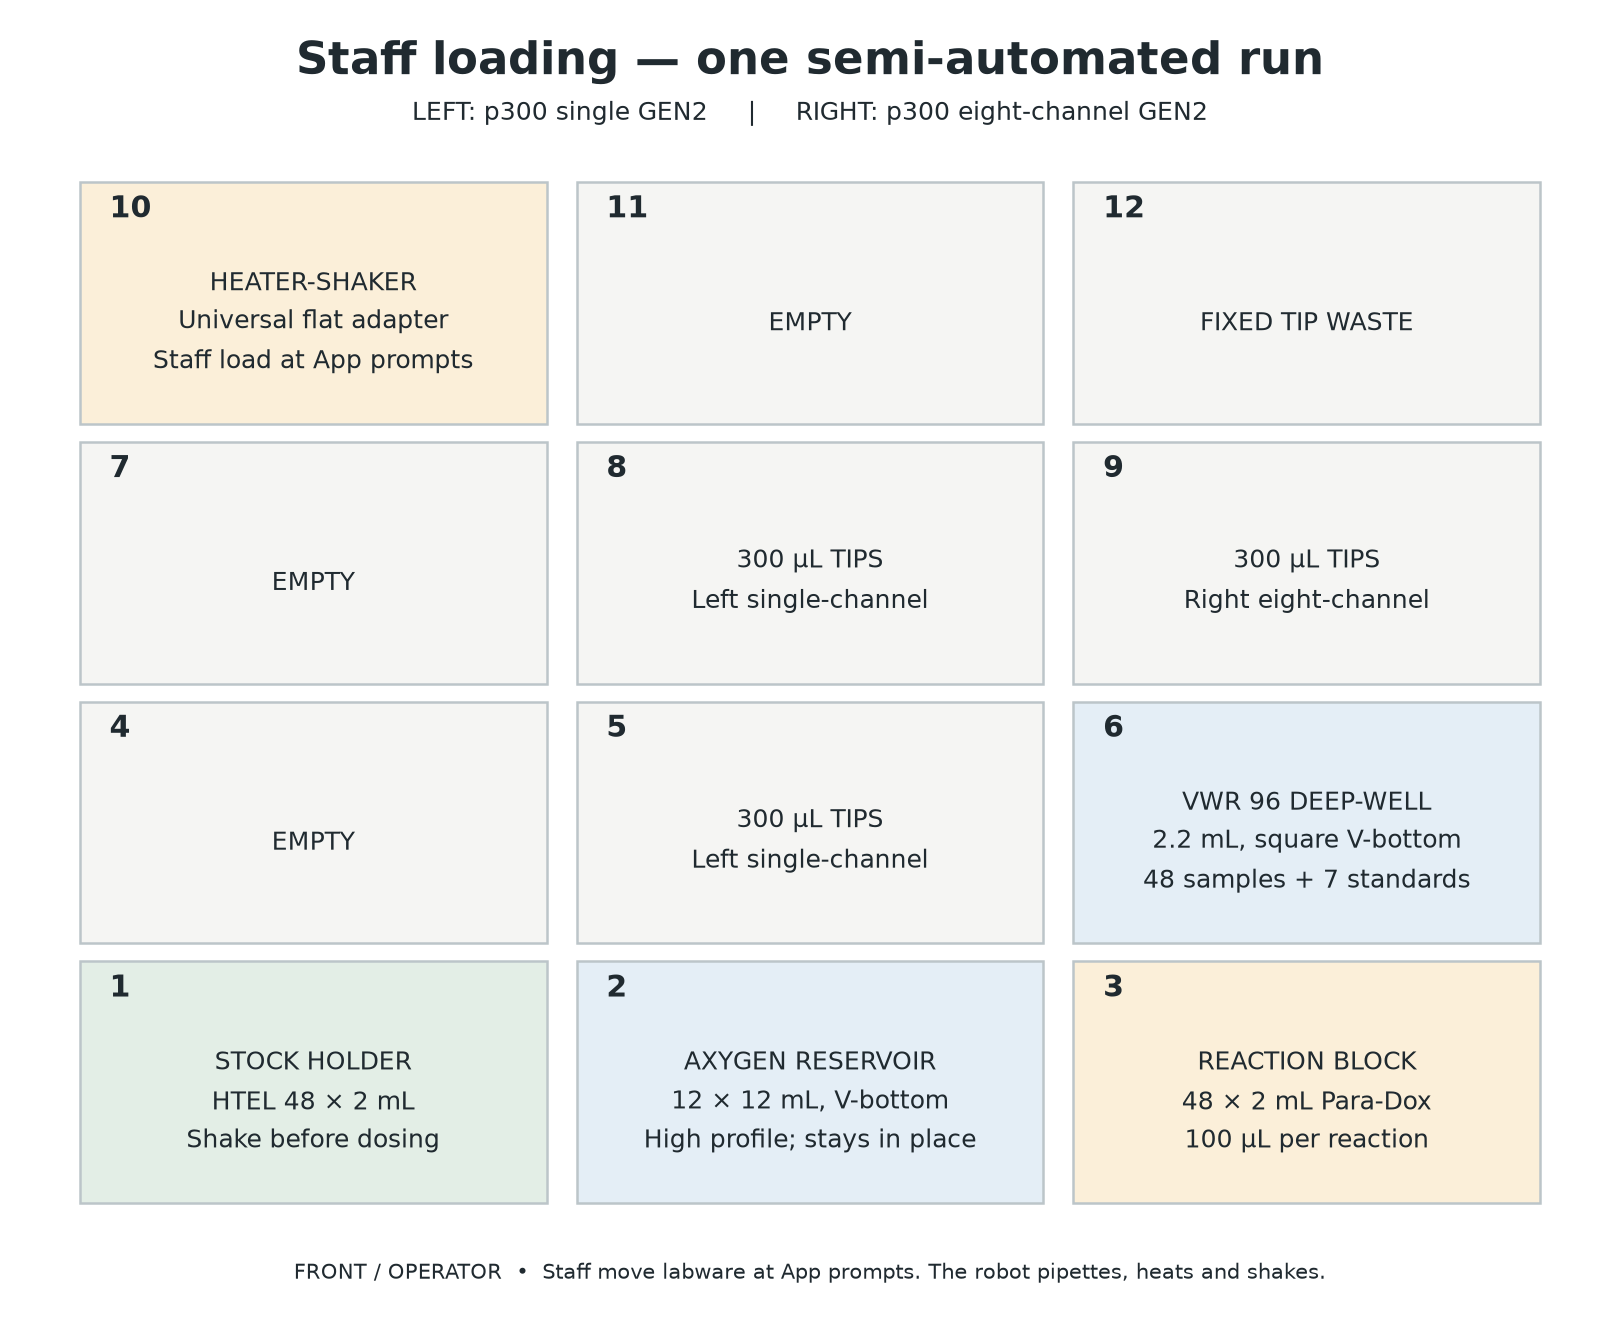
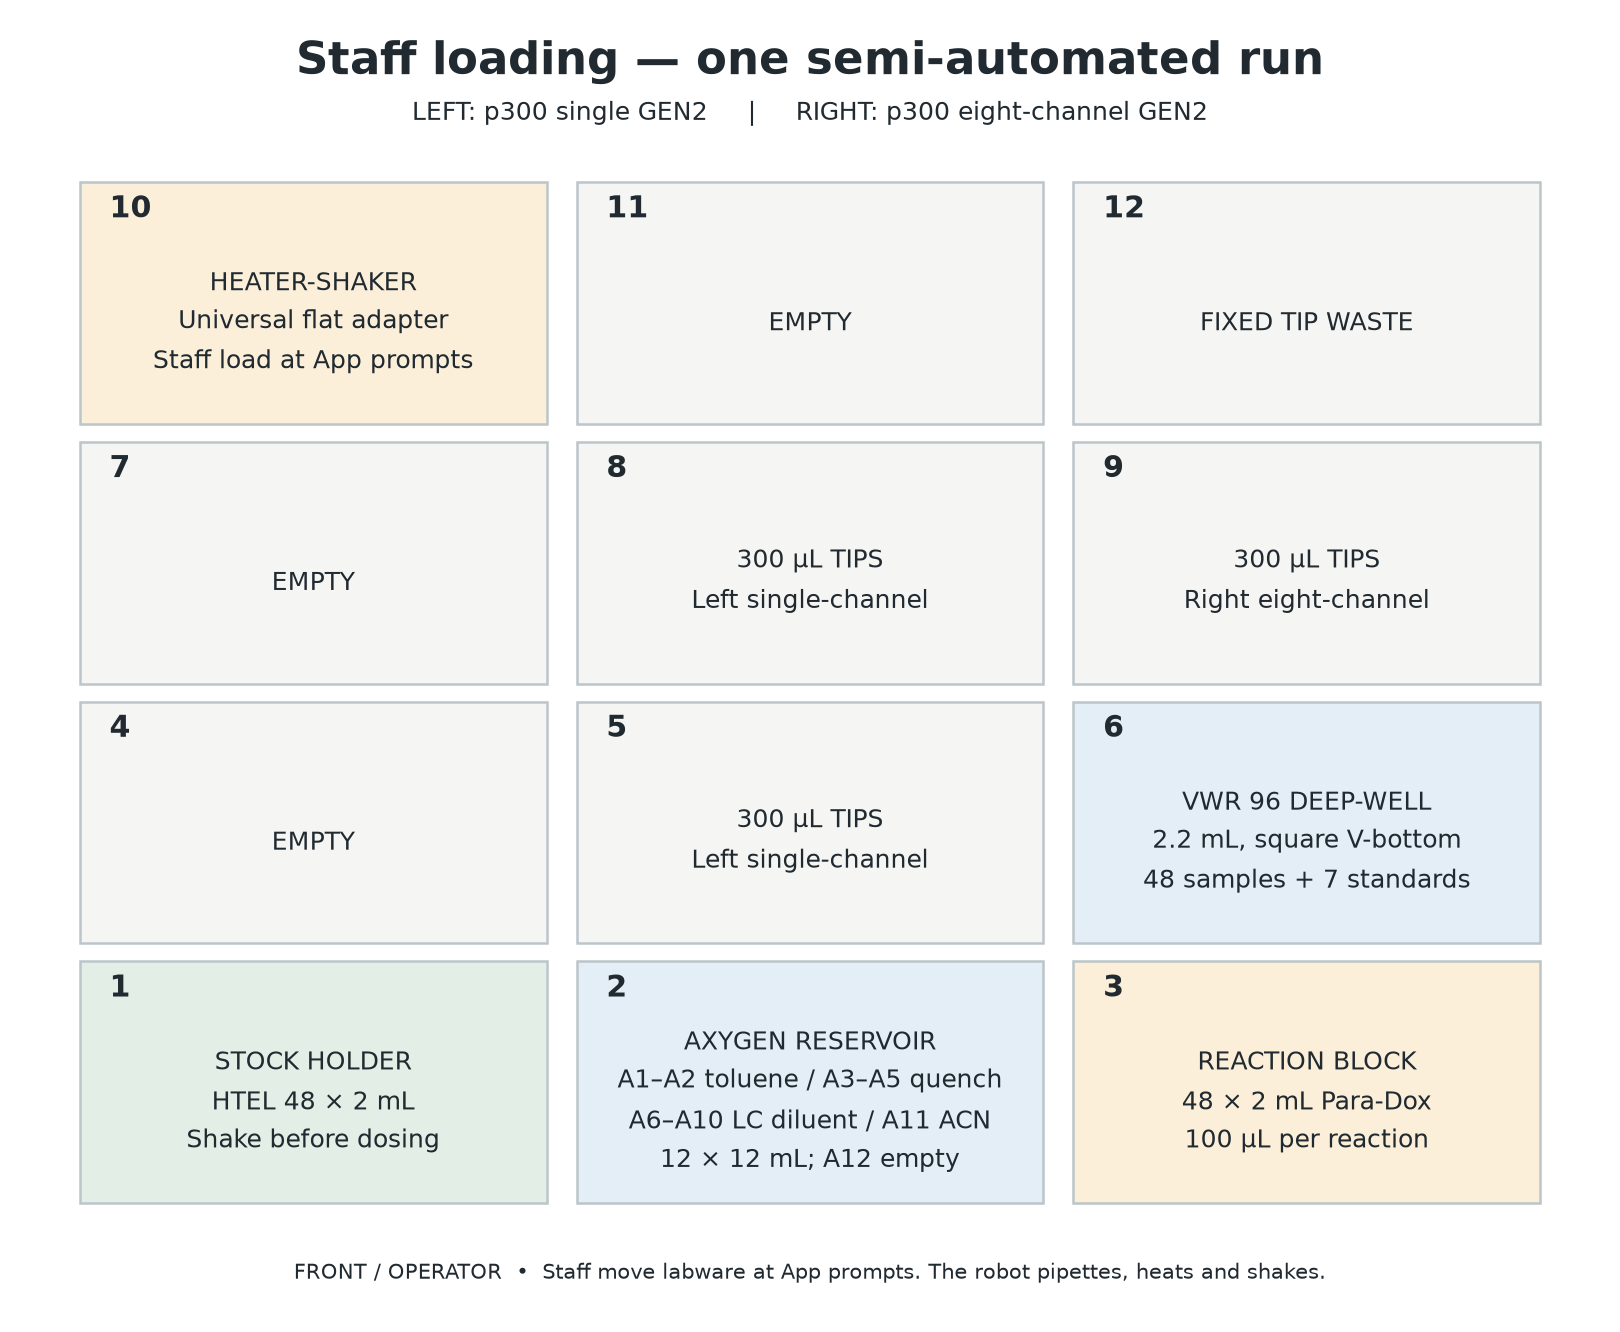
Label reservoir liquids and LC standard solvent vial explicitly

Changed region(s): [[0.3704, 0.7695, 0.6173, 0.8926]]

diff --git a/support/scripts/draw-run.py b/support/scripts/draw-run.py
@@ -89,7 +89,7 @@ def main():
     ink='#202a30';line='#bcc5c9';blue='#e4eef6';green='#e3eee6';amber='#fbefd9'
     fig,ax=plt.subplots(figsize=(9,7.4));fig.subplots_adjust(left=.04,right=.96,top=.87,bottom=.09)
     ax.set(xlim=(0,3),ylim=(0,4));ax.axis('off')
-    titles={1:'STOCK HOLDER\nHTEL 48 × 2 mL\nShake before dosing',2:'AXYGEN RESERVOIR\n12 × 12 mL, V-bottom\nHigh profile; stays in place',
+    titles={1:'STOCK HOLDER\nHTEL 48 × 2 mL\nShake before dosing',2:'AXYGEN RESERVOIR\nA1–A2 toluene / A3–A5 quench\nA6–A10 LC diluent / A11 ACN\n12 × 12 mL; A12 empty',
             3:'REACTION BLOCK\n48 × 2 mL Para-Dox\n100 µL per reaction',4:'EMPTY',5:'300 µL TIPS\nLeft single-channel',
             6:'VWR 96 DEEP-WELL\n2.2 mL, square V-bottom\n48 samples + 7 standards',7:'EMPTY',8:'300 µL TIPS\nLeft single-channel',
             9:'300 µL TIPS\nRight eight-channel',10:'HEATER-SHAKER\nUniversal flat adapter\nStaff load at App prompts',11:'EMPTY',12:'FIXED TIP WASTE'}
@@ -119,7 +119,7 @@ def main():
                   'LOW':'Dilute calibration\nmixture; robot fills',
                   'CHECK':'LC accuracy check\nRobot fills',
                   'IS_WORK':'Naphthalene dilution\nRobot fills',
-                  'MATRIX':'Solvent mixture\nRobot fills'}
+                  'MATRIX':'LC standard solvents\nRobot fills'}
     for col in range(8):
         ax.text(col+.5,6.18,str(col+1),ha='center',fontsize=13,fontweight='bold',color=ink)
         for row,letter in enumerate('ABCDEF'):

diff --git a/support/scripts/build-run.py b/support/scripts/build-run.py
@@ -25,7 +25,7 @@ def main():
              '\n| Empty vial | Label | Robot prepares |\n|---|---|---|\n']
     descriptions={'HIGH':'5 mM SM + 5 mM product','LOW':'0.25 mM SM + 0.25 mM product',
                   'CHECK':'LC accuracy check: 5 mM SM + 5 mM product, from the separately weighed CHECK sources',
-                  'IS_WORK':'2 mM naphthalene','MATRIX':'100 µL toluene + 400 µL quench'}
+                  'IS_WORK':'2 mM naphthalene','MATRIX':'Solvent mix for LC standards: 100 µL toluene + 400 µL quench'}
     for key,description in descriptions.items():rows.append(f"| {plan['locations'][key][1]} | {key} | {description} |\n")
     rows.append('\nUse the vial labels and positions shown here, not an earlier two-round map. [Machine-readable weighing list](tables/weighing.csv) · [All vial positions](tables/tube-map.csv).\n')
     (out/'WEIGHING.md').write_text(''.join(rows))

diff --git a/run/WEIGHING.md b/run/WEIGHING.md
@@ -49,6 +49,6 @@ Only the vials below receive weighed material. There are **30 ligands**: unavail
 | C7 | LOW | 0.25 mM SM + 0.25 mM product |
 | D7 | CHECK | LC accuracy check: 5 mM SM + 5 mM product, from the separately weighed CHECK sources |
 | E7 | IS_WORK | 2 mM naphthalene |
-| F7 | MATRIX | 100 µL toluene + 400 µL quench |
+| F7 | MATRIX | Solvent mix for LC standards: 100 µL toluene + 400 µL quench |
 
 Use the vial labels and positions shown here, not an earlier two-round map. [Machine-readable weighing list](tables/weighing.csv) · [All vial positions](tables/tube-map.csv).
